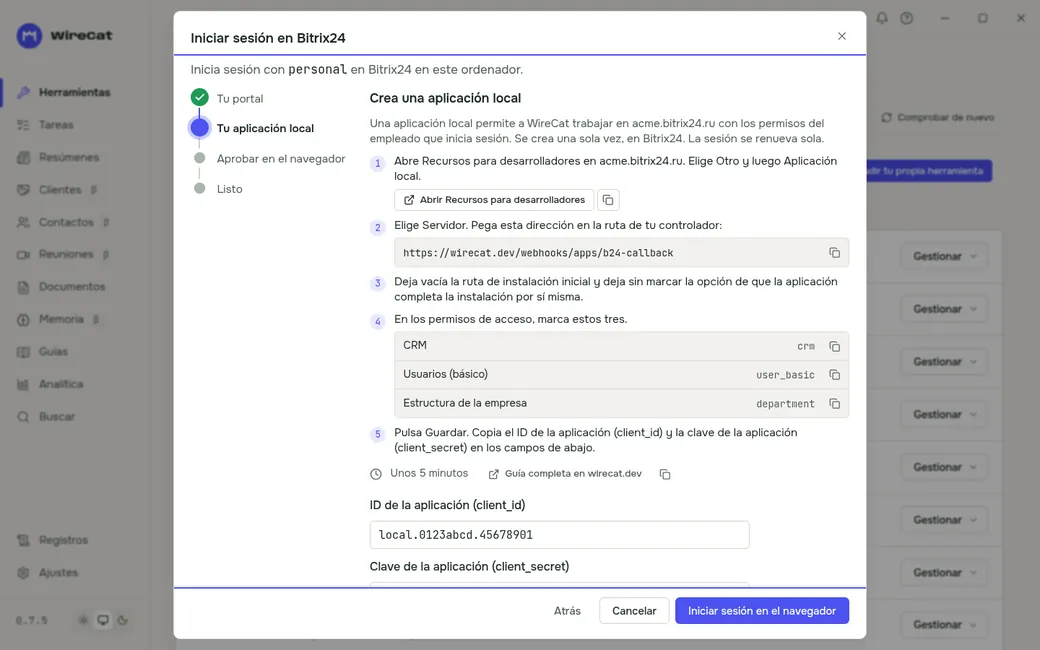
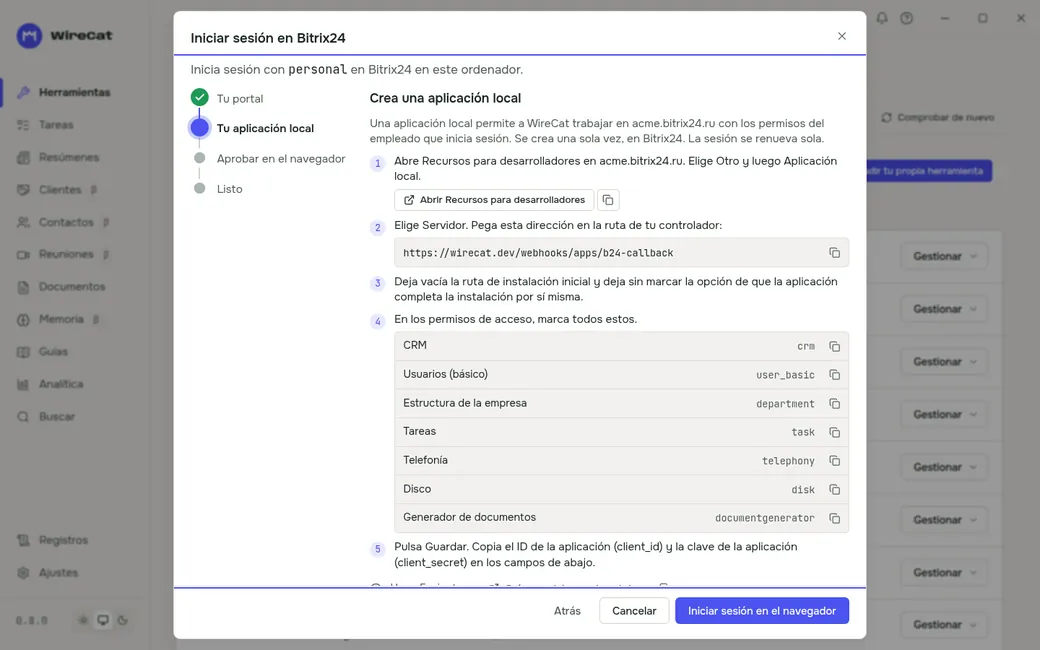
docs(desktop): show the seven Bitrix24 permissions on the local application step
Desktop's Bitrix24 sign-in now lists every permission b24 asks for
(wirecat-desktop #483, NEED-2938 A). The bitrix-app shots are retaken
from that branch in en, ru and es, light and dark, and the step text
and alt texts say seven permissions instead of three.

The drift-allow line for bitrix signIn.asks stays: the scopes now
match, but Desktop's catalog keeps its own words (Incoming webhook, no
semicolon), so the text still differs from b24's manifest. Its reason
now says so.

Changed region(s): [[0.3385, 0.6462, 0.8308, 0.8923], [0.5538, 0.4615, 0.5846, 0.5231]]

diff --git a/docs/screenshots-to-capture.md b/docs/screenshots-to-capture.md
@@ -64,9 +64,9 @@ see its CLAUDE.md), with the sample data of `?showcase`. The language comes from
 Every docs shot except `onboarding-install`, `amo-integration` and the three Digests shots was retaken from Desktop
 main at `8d8892fb` (0.7.5), after the sidebar changed: Agents became a tab of Tools, Storage a tab of Analytics, and
 Meetings and Documents joined the menu. `onboarding-install` looked the same in 0.7.5, so it stayed. The Digests shots
-(`digest-editor`, `digests`, `digest-settings`) are from main at `98c2b8f4` and `amo-integration` from PR #692, all
-with the current menu. Capture at 1440x900 with `capture.mjs --lang en|ru|es [--dark]`, then
-`node scripts/crop-desktop-screenshots.mjs <folder> <shot> --docs`.
+(`digest-editor`, `digests`, `digest-settings`) are from main at `98c2b8f4`, `amo-integration` from PR #692 and
+`bitrix-app` from wirecat-desktop PR #483 (the seven permissions), all with the current menu. Capture at 1440x900 with
+`capture.mjs --lang en|ru|es [--dark]`, then `node scripts/crop-desktop-screenshots.mjs <folder> <shot> --docs`.
 
 | Shot | Query | Before the capture |
 | --- | --- | --- |
